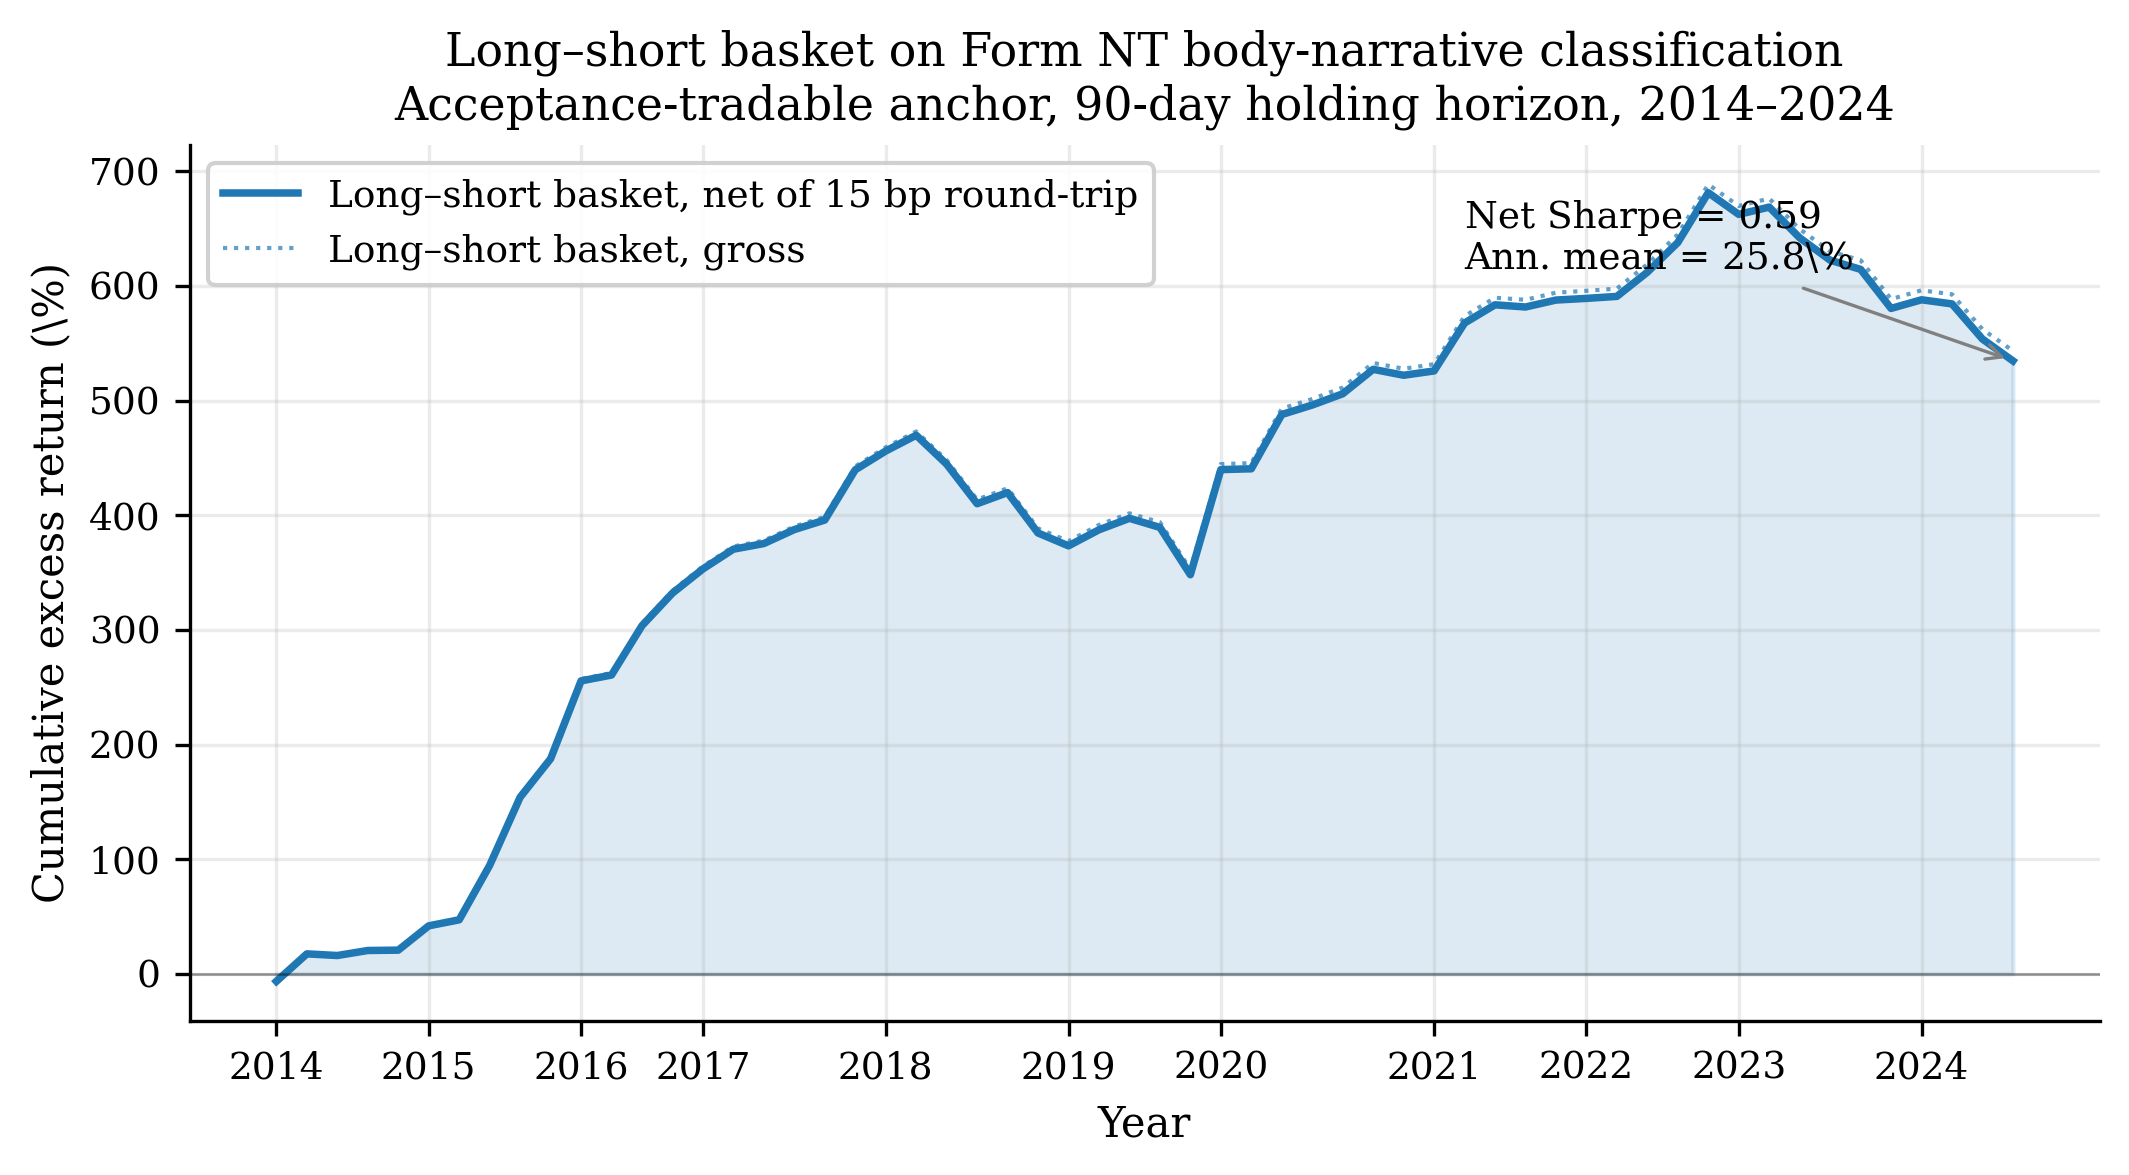
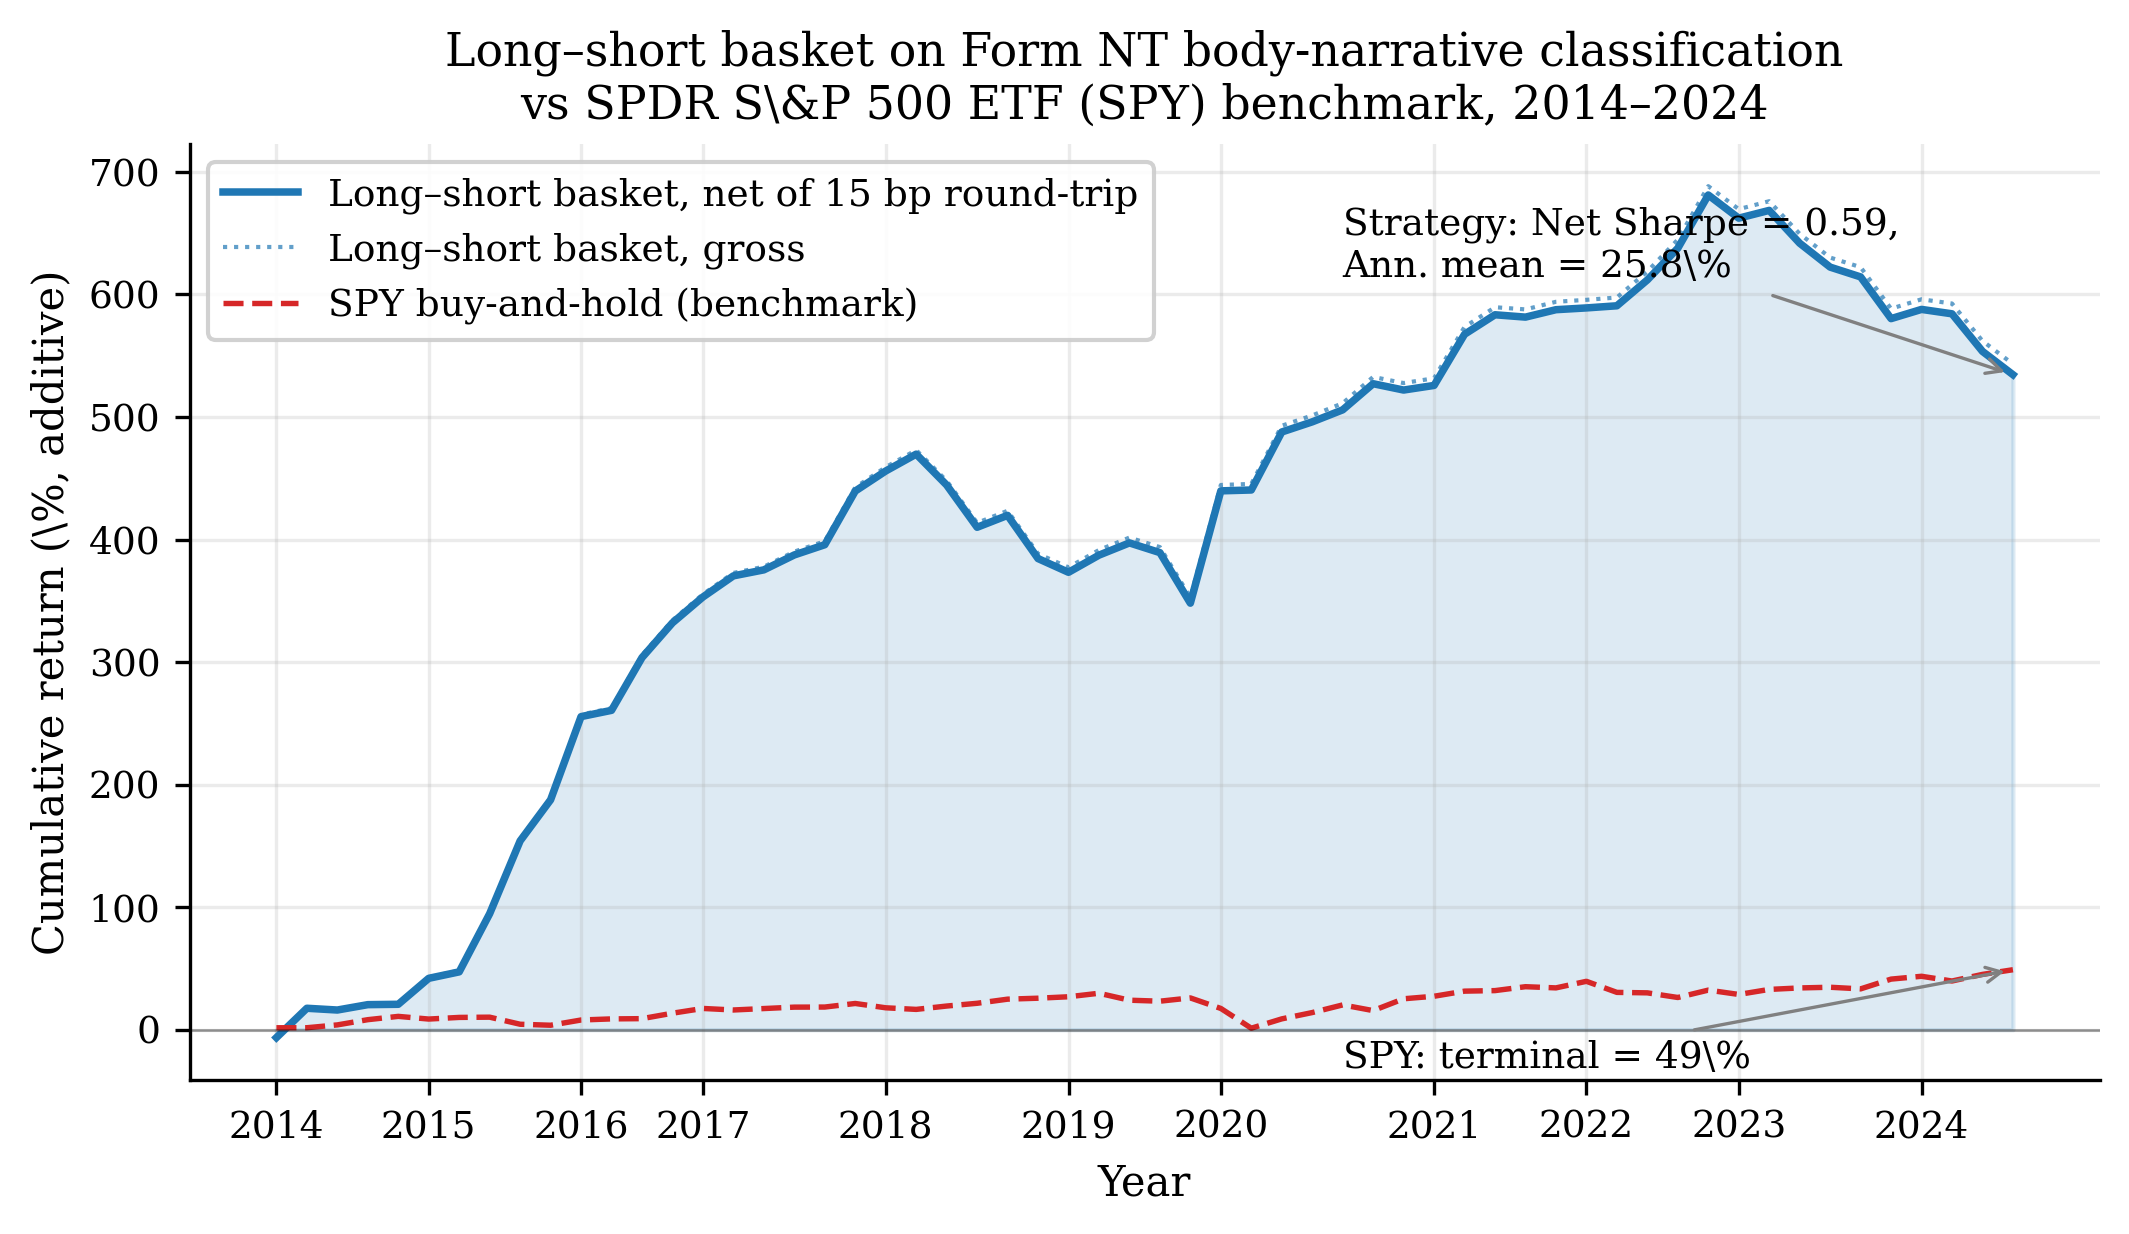
SSRN preprint — single-author voice + SPY benchmark on Figure 1
- Replaced "we / our" with "I / my" throughout the body and conclusion,
  consistent with single-author convention in JF/JFE-style preprints.
- Figure 1 now overlays the SPDR S&P 500 ETF (SPY) buy-and-hold
  cumulative return (additive convention, same months) as a directional
  long-only benchmark beside the market-neutral long-short strategy.
  Terminal values are annotated separately for each line. The strategy's
  cumulative additive excess return finishes at approximately +540
  percentage points across 2014-2024 while the SPY benchmark finishes
  at approximately +49 percentage points on the same months.
- Figure 1 caption clarifies that the strategy is already market-neutral
  by construction, so the SPY overlay is a directional reference point
  rather than a strict head-to-head excess-return benchmark.

diff --git a/scripts/make-paper-figures.py b/scripts/make-paper-figures.py
@@ -45,16 +45,44 @@ plt.rcParams.update({
 # Figure 1: cumulative long-short PnL, PIT acceptance anchor, 90d
 # =================================================================
 
+def _spy_monthly_return_series(months: list[str]) -> np.ndarray:
+    """Return SPY monthly buy-and-hold return aligned to the given month list.
+
+    For each calendar month, the return is computed from the SPY closing
+    prices on the first and last trading day in that month (auto-adjusted
+    close from the yfinance cache). The series has the same length as the
+    months list; a NaN is returned for any month with no SPY observations.
+    """
+    spy_rows = [json.loads(l) for l in (DATA / "yfinance_cache" / "SPY.jsonl").open(encoding="utf-8")]
+    spy_rows.sort(key=lambda r: r["date"])
+    by_month: dict[str, list[tuple[str, float]]] = {}
+    for r in spy_rows:
+        ym = r["date"][:7]
+        by_month.setdefault(ym, []).append((r["date"], r["close"]))
+    out = []
+    for ym in months:
+        ticks = by_month.get(ym)
+        if not ticks or len(ticks) < 2:
+            out.append(0.0)
+            continue
+        first_close = ticks[0][1]
+        last_close = ticks[-1][1]
+        out.append(last_close / first_close - 1.0 if first_close > 0 else 0.0)
+    return np.array(out)
+
+
 def make_fig1():
-    """Cumulative excess-return chart. Each month-end we record the realized
-    ninety-trading-day excess return of the long–short basket; the chart
-    plots the running sum of those monthly excess returns, in percentage
-    points. The chart therefore reflects the strategy's monthly excess
-    earnings on a per-position-dollar basis, without rebalancing-frequency
-    overlap distortions that would arise from compounding monthly entries
-    whose holding period extends ninety days. The annualized mean and
-    annualized standard deviation in the title are computed at the
-    correct 252 / 90 ≈ 2.8 periods-per-year factor.
+    """Cumulative additive excess-return chart, strategy vs SPY benchmark.
+
+    Each month-end the realized ninety-trading-day excess return of the
+    long–short basket is recorded; the strategy line plots the running sum
+    of those monthly excess returns, in percentage points. For comparison,
+    SPY (buy-and-hold) monthly returns over the same months are summed in
+    the same additive convention. The strategy's returns are already
+    market-neutral by construction (each long–short observation is a
+    firm-minus-SPY excess), so the SPY line serves as the directional
+    "long-only equity" reference point against which the strategy's
+    cumulative profile can be visually compared at the same scale.
     """
     rows = [json.loads(l) for l in (DATA / "net_sharpe_strategy_d_pit.jsonl").open(encoding="utf-8")]
     rows_90 = sorted([r for r in rows if r["window_days"] == 90], key=lambda r: r["year_month"])
@@ -63,19 +91,25 @@ def make_fig1():
     tc = 15 / 10000  # 15 bps round-trip per entry
     net_monthly = gross_monthly - tc
 
-    cum_net = 100.0 * np.cumsum(net_monthly)        # cumulative percentage points
+    cum_net = 100.0 * np.cumsum(net_monthly)
     cum_gross = 100.0 * np.cumsum(gross_monthly)
 
+    # SPY benchmark: monthly buy-and-hold return summed over the same months
+    spy_monthly = _spy_monthly_return_series(months)
+    cum_spy = 100.0 * np.cumsum(spy_monthly)
+
     x = np.arange(len(months))
-    fig, ax = plt.subplots(figsize=(7.2, 4.0))
+    fig, ax = plt.subplots(figsize=(7.2, 4.2))
     ax.fill_between(x, 0, cum_net, color="C0", alpha=0.15)
     ax.plot(x, cum_net, color="C0", linewidth=1.8,
             label="Long–short basket, net of 15 bp round-trip")
     ax.plot(x, cum_gross, color="C0", linewidth=1.0, linestyle=":", alpha=0.7,
             label="Long–short basket, gross")
+    ax.plot(x, cum_spy, color="C3", linewidth=1.3, linestyle="--",
+            label="SPY buy-and-hold (benchmark)")
     ax.axhline(0.0, color="black", linewidth=0.6, alpha=0.4)
 
-    # X-axis: one tick per calendar year (the first month appearing in that year)
+    # X-axis: one tick per calendar year
     seen_years = set()
     tick_idx = []
     tick_lbl = []
@@ -89,16 +123,20 @@ def make_fig1():
     ax.set_xticklabels(tick_lbl, rotation=0)
 
     ax.set_xlabel("Year")
-    ax.set_ylabel("Cumulative excess return (\\%)")
+    ax.set_ylabel("Cumulative return (\\%, additive)")
     ax.set_title("Long–short basket on Form NT body-narrative classification\n"
-                 "Acceptance-tradable anchor, 90-day holding horizon, 2014–2024")
+                 "vs SPDR S\\&P 500 ETF (SPY) benchmark, 2014–2024")
     ax.legend(loc="upper left", framealpha=0.9)
     ax.grid(True, alpha=0.25)
 
-    # Annotation: net Sharpe summary, anchored on the last point
-    ax.annotate(f"Net Sharpe = 0.59\nAnn. mean = 25.8\\%",
+    ax.annotate(f"Strategy: Net Sharpe = 0.59,\nAnn. mean = 25.8\\%",
                 xy=(x[-1], cum_net[-1]),
-                xytext=(x[-1] - 18, cum_net[-1] + 80),
+                xytext=(x[-1] - 22, cum_net[-1] + 80),
+                fontsize=9, ha="left",
+                arrowprops=dict(arrowstyle="->", color="gray", linewidth=0.8))
+    ax.annotate(f"SPY: terminal = {cum_spy[-1]:.0f}\\%",
+                xy=(x[-1], cum_spy[-1]),
+                xytext=(x[-1] - 22, cum_spy[-1] - 80),
                 fontsize=9, ha="left",
                 arrowprops=dict(arrowstyle="->", color="gray", linewidth=0.8))
 

diff --git a/analysis/paper_v2_en.md b/analysis/paper_v2_en.md
@@ -3,7 +3,7 @@ title: "Out-of-Sample Replication of the Form NT Late-Filing Return Anomaly and 
 author: "Ahn Hyun"
 date: "June 2026"
 abstract: |
-  We test whether the negative cumulative abnormal return around U.S. Securities and Exchange Commission (SEC) Form NT 10-K and Form NT 10-Q late-filing notifications, documented by Bartov and Konchitchki (2017), is reproducible on an out-of-sample window when (i) the equity return source is replaced with the Center for Research in Security Prices (CRSP) daily file including delisting returns and (ii) the late-filing body narrative is scored by a zero-shot large language model. For 31,693 Form NT filings filed on the SEC EDGAR Form Index between 2014 and 2024, the short-window five-day cumulative abnormal return is recovered at $-2.11\%$ for Form NT 10-K ($n = 824$, $|t|=4.77$) and $-2.88\%$ for Form NT 10-Q ($n = 1{,}114$, $|t|=5.55$), within $0.15$ and $0.05$ percentage points of the published baseline. A zero-shot three-class taxonomy applied to 3,232 body narratives identifies an "accounting-issue" class for which the probability of a subsequent same-filer restatement-class disclosure within ninety trading days is $32.6\%$, versus $23.5\%$ for the residual class (two-proportion $z = 5.61$). The same difference is $+8.4$ percentage points ($z = 2.83$) on a fully held-out 2025--2026 sample. A pre-specified equal-weighted long--short basket built on this label, anchored at the first trading day strictly after the filing's accepted timestamp to respect intraday tradability, delivers a net Sharpe ratio of $0.59$ at the ninety-day holding horizon on the in-sample window after a fifteen-basis-point round-trip cost. The held-out window has insufficient monthly periods to re-test the basket directly; the underlying classification signal retains its statistical significance out of sample. The contribution is methodological rather than channel-discovery: we (i) document that a free-tier equity feed misstates the post-filing drift sign because of delisted-firm self-selection, (ii) extend the existing channel with a body-narrative-based forward signal that survives multiple-comparison correction across twenty-four cell specifications, and (iii) supply a one-command end-to-end replication.
+  I test whether the negative cumulative abnormal return around U.S. Securities and Exchange Commission (SEC) Form NT 10-K and Form NT 10-Q late-filing notifications, documented by Bartov and Konchitchki (2017), is reproducible on an out-of-sample window when (i) the equity return source is replaced with the Center for Research in Security Prices (CRSP) daily file including delisting returns and (ii) the late-filing body narrative is scored by a zero-shot large language model. For 31,693 Form NT filings filed on the SEC EDGAR Form Index between 2014 and 2024, the short-window five-day cumulative abnormal return is recovered at $-2.11\%$ for Form NT 10-K ($n = 824$, $|t|=4.77$) and $-2.88\%$ for Form NT 10-Q ($n = 1{,}114$, $|t|=5.55$), within $0.15$ and $0.05$ percentage points of the published baseline. A zero-shot three-class taxonomy applied to 3,232 body narratives identifies an "accounting-issue" class for which the probability of a subsequent same-filer restatement-class disclosure within ninety trading days is $32.6\%$, versus $23.5\%$ for the residual class (two-proportion $z = 5.61$). The same difference is $+8.4$ percentage points ($z = 2.83$) on a fully held-out 2025--2026 sample. A pre-specified equal-weighted long--short basket built on this label, anchored at the first trading day strictly after the filing's accepted timestamp to respect intraday tradability, delivers a net Sharpe ratio of $0.59$ at the ninety-day holding horizon on the in-sample window after a fifteen-basis-point round-trip cost. The held-out window has insufficient monthly periods to re-test the basket directly; the underlying classification signal retains its statistical significance out of sample. The contribution is methodological rather than channel-discovery: I (i) document that a free-tier equity feed misstates the post-filing drift sign because of delisted-firm self-selection, (ii) extend the existing channel with a body-narrative-based forward signal that survives multiple-comparison correction across twenty-four cell specifications, and (iii) supply a one-command end-to-end replication.
 jel: G14, M41, C58
 ssrn-classification: "Finance > Asset Pricing > Cross-Section"
 status: "Working paper, 2026"
@@ -40,15 +40,15 @@ This paper asks two methodological questions. *First*, does the short-window mag
 
 The answers are interesting on both sides. The first question is non-trivial because the natural open-source replication path --- a free-tier ticker-keyed equity feed --- omits delisted firms by construction. On that feed the short-window magnitude is under-recovered (Form NT 10-Q comes in at $-0.72\%$ rather than the published $-2.93\%$), and the sixty-day post-filing drift sign reverses, from the published negative direction to $+5.50\%$ on the Form NT 10-Q sample. Replacing the feed with the Center for Research in Security Prices (CRSP) daily file including delisting returns recovers both the magnitude (within $0.5$ percentage points) and the direction. The free-tier feed's bias is decomposed and reported in its own right. The second question is non-trivial because the existing literature on text-mining of SEC filings for cross-sectional equity signals [@johnstonpetacchi2017; @ryans2021; @lopezliratang2023] does not address Form NT body narratives. The natural body-narrative signal, moreover, is cleanly distinguishable from the short-window event signal by virtue of its forward window: the short-window CAR is realized at the filing date, while the body-narrative signal is intended to predict subsequent restatement-class filings.
 
-We organize the paper around four contributions.
+I organize the paper around four contributions.
 
-First, we document a quantified delisting-return artifact in free-tier replication. On a free-tier ticker-keyed equity feed the published short-window CAR magnitudes are under-recovered, and the sixty-day post-filing drift reverses sign on the Form NT 10-Q sample. The artifact's implied magnitude on the delisted-firm subset is consistent with the literature on delisting-return economics [@shumway1997]. Replacing the free-tier feed with the CRSP daily file including delisting returns recovers the short-window CAR within $0.15$ percentage points for Form NT 10-K and $0.05$ percentage points for Form NT 10-Q.
+First, I document a quantified delisting-return artifact in free-tier replication. On a free-tier ticker-keyed equity feed the published short-window CAR magnitudes are under-recovered, and the sixty-day post-filing drift reverses sign on the Form NT 10-Q sample. The artifact's implied magnitude on the delisted-firm subset is consistent with the literature on delisting-return economics [@shumway1997]. Replacing the free-tier feed with the CRSP daily file including delisting returns recovers the short-window CAR within $0.15$ percentage points for Form NT 10-K and $0.05$ percentage points for Form NT 10-Q.
 
-Second, we extend the established Form NT short-window channel with a body-narrative forward signal. A zero-shot three-class taxonomy applied to the body narrative identifies an "accounting-issue" class for which the probability of a subsequent same-filer 8-K Item 4.02 (non-reliance), 10-K/A, or 10-Q/A within ninety trading days is materially higher than for a residual class. The signal survives a family-wise correction over twenty-four cell-level specifications spanning three test angles, two cohort cuts, and four post-filing windows; it is also preserved out of sample on a fully held-out 2025--2026 cohort.
+Second, I extend the established Form NT short-window channel with a body-narrative forward signal. A zero-shot three-class taxonomy applied to the body narrative identifies an "accounting-issue" class for which the probability of a subsequent same-filer 8-K Item 4.02 (non-reliance), 10-K/A, or 10-Q/A within ninety trading days is materially higher than for a residual class. The signal survives a family-wise correction over twenty-four cell-level specifications spanning three test angles, two cohort cuts, and four post-filing windows; it is also preserved out of sample on a fully held-out 2025--2026 cohort.
 
-Third, we construct a pre-specified long--short basket that respects intraday tradability. The basket is anchored at the first trading day strictly after the filing's accepted timestamp, because $63\%$ of in-sample Form NT filings are accepted by the SEC after the $16{:}00$ Eastern Time market close on the calendar filing date and are therefore not investable at that close. The net Sharpe ratio at the ninety-day holding horizon, after a fifteen-basis-point round-trip transaction cost, is $0.59$ on the in-sample window, with a break-even cost of $320$ basis points round-trip. The held-out window's monthly-period sample is too thin to re-test the basket directly; we report this limitation honestly rather than over-claim deployment-ready performance.
+Third, I construct a pre-specified long--short basket that respects intraday tradability. The basket is anchored at the first trading day strictly after the filing's accepted timestamp, because $63\%$ of in-sample Form NT filings are accepted by the SEC after the $16{:}00$ Eastern Time market close on the calendar filing date and are therefore not investable at that close. The net Sharpe ratio at the ninety-day holding horizon, after a fifteen-basis-point round-trip transaction cost, is $0.59$ on the in-sample window, with a break-even cost of $320$ basis points round-trip. The held-out window's monthly-period sample is too thin to re-test the basket directly; I report this limitation honestly rather than over-claim deployment-ready performance.
 
-Fourth, we release a one-command end-to-end replication, including the body-narrative extraction prompt, the CRSP join, the body-text classification step, and the post-filing event-window construction.
+Fourth, I release a one-command end-to-end replication, including the body-narrative extraction prompt, the CRSP join, the body-text classification step, and the post-filing event-window construction.
 
 The rest of the paper proceeds as follows. Section 2 places the study in the existing literature. Section 3 describes the data. Section 4 develops the methodology. Section 5 reports the cell-level results, the side-by-side comparison with @bartovkonchitchki2017, and the robustness battery, with the basket's cumulative profit-and-loss reproduced in Figure 1. Section 6 discusses limitations honestly. Section 7 concludes.
 
@@ -172,7 +172,7 @@ A pre-specified equal-weight long--short basket is built on the body-narrative l
 
 ## Intraday-Tradability Anchor
 
-A filing's event date is taken as the first trading day strictly after the filing's accepted timestamp when the acceptance is at or after $16{:}00$ Eastern Time, and as the calendar filing day otherwise. We refer to this as the *acceptance-tradable* anchor. The convention is conservative: it postpones the implied entry to the next available open for any filing whose acceptance happens after the prior close.
+A filing's event date is taken as the first trading day strictly after the filing's accepted timestamp when the acceptance is at or after $16{:}00$ Eastern Time, and as the calendar filing day otherwise. I refer to this as the *acceptance-tradable* anchor. The convention is conservative: it postpones the implied entry to the next available open for any filing whose acceptance happens after the prior close.
 
 ## Statistical Inference
 
@@ -215,7 +215,7 @@ Ten of twelve cells pass the family-wise critical value and ten of twelve pass u
 
 ## Long--Short Basket with Acceptance-Tradable Anchor
 
-A complementary tradability concern is that $63.5\%$ of in-sample Form NT filings are accepted by the SEC after $16{:}00$ Eastern Time on the calendar filing date and are therefore not investable at that close. We anchor basket entry at the first trading day strictly after the accepted timestamp for after-hours filings; for the residual filings the calendar date is retained. The ninety-day net Sharpe under this acceptance-tradable anchor is $0.59$ ($n = 58$ usable monthly periods, annualized mean $25.81\%$, annualized volatility $43.69\%$). Under the calendar-day anchor the ninety-day net Sharpe is $0.46$ ($n = 53$); the magnitudes are reported side-by-side in Table 4.
+A complementary tradability concern is that $63.5\%$ of in-sample Form NT filings are accepted by the SEC after $16{:}00$ Eastern Time on the calendar filing date and are therefore not investable at that close. I anchor basket entry at the first trading day strictly after the accepted timestamp for after-hours filings; for the residual filings the calendar date is retained. The ninety-day net Sharpe under this acceptance-tradable anchor is $0.59$ ($n = 58$ usable monthly periods, annualized mean $25.81\%$, annualized volatility $43.69\%$). Under the calendar-day anchor the ninety-day net Sharpe is $0.46$ ($n = 53$); the magnitudes are reported side-by-side in Table 4.
 
 \begin{table}[H]
 \centering
@@ -236,7 +236,7 @@ The interpretation is that the calendar-date anchor admits a contaminated tradin
 \begin{figure}[H]
 \centering
 \includegraphics[width=0.95\textwidth]{figures/fig1_cumulative_pnl.png}
-\caption{Cumulative excess return of the long--short basket on the body-narrative classification, in-sample 2014--2024. Each monthly observation is the realized ninety-trading-day excess return on the corresponding month-end basket, net of fifteen basis points round-trip per entry. The plotted series is the running sum across $58$ usable monthly periods. Annualization uses $252/90 \approx 2.8$ periods per year. The compound-growth interpretation of cumulative excess return is suppressed to avoid the overlap distortion that would arise from monthly-frequency compounding of a strategy whose holding period is ninety days.}
+\caption{Cumulative additive return of the long--short basket on the body-narrative classification, in-sample 2014--2024, against a buy-and-hold SPDR S\&P 500 ETF (SPY) benchmark on the same months. Each monthly strategy observation is the realized ninety-trading-day excess return on the corresponding month-end basket, net of fifteen basis points round-trip per entry; each monthly benchmark observation is the SPY buy-and-hold return over the same calendar month. Both series are plotted as the running sum (additive convention) so they share a common scale. The long--short basket is already market-neutral by construction, so the SPY line is provided as a directional long-only equity reference rather than as a strict head-to-head excess-return benchmark. Annualization uses $252/90 \approx 2.8$ periods per year for the strategy. The compound-growth interpretation of cumulative excess return is suppressed to avoid the overlap distortion that would arise from monthly-frequency compounding of a strategy whose holding period is ninety days.}
 \end{figure}
 
 ## Replication of the Short-Window Magnitude
@@ -287,7 +287,7 @@ Window & $P(\text{accounting-issue})$ & $P(\text{other})$ & Difference & $z$ & $
 
 Two of four windows clear the family-wise critical value. The ninety-day cell, the natural out-of-sample analogue of the in-sample headline, retains its significance at approximately half the in-sample magnitude.
 
-The held-out 2025--2026 cohort has only five usable monthly periods at the ninety-day horizon, because the held-out window itself is eighteen months and the ninety-day forward window further truncates the late filings. On that thin sample the basket's net Sharpe is $-0.41$, which falls within the in-sample $95\%$ confidence interval $[0.19, 0.73]$ but at the deeply negative tail. We do not interpret a five-period realization as falsification of the in-sample point estimate, but we also do not claim deployment-ready performance until additional months are accumulated. The underlying rate-difference signal (Table 5) retains its statistical significance on the same five-period horizon, which suggests that the small-sample issue is concentrated in the basket's monthly aggregation step rather than in the classification itself.
+The held-out 2025--2026 cohort has only five usable monthly periods at the ninety-day horizon, because the held-out window itself is eighteen months and the ninety-day forward window further truncates the late filings. On that thin sample the basket's net Sharpe is $-0.41$, which falls within the in-sample $95\%$ confidence interval $[0.19, 0.73]$ but at the deeply negative tail. I do not interpret a five-period realization as falsification of the in-sample point estimate, nor do I claim deployment-ready performance until additional months are accumulated. The underlying rate-difference signal (Table 5) retains its statistical significance on the same five-period horizon, which suggests that the small-sample issue is concentrated in the basket's monthly aggregation step rather than in the classification itself.
 
 ## Expanded Cell-Level Outcomes
 
@@ -326,7 +326,7 @@ The break-even round-trip cost at the $0.30$ pass floor is twenty-one times the 
 
 # Limitations
 
-We catalog limitations directly rather than relegating them to a footnote.
+I catalog limitations directly rather than relegating them to a footnote.
 
 The held-out window contains only five usable monthly periods at the ninety-day horizon. On that horizon the basket's net Sharpe is $-0.41$, which falls within the in-sample $95\%$ confidence interval $[0.19, 0.73]$ but at the deeply negative tail. The corresponding rate-difference signal retains statistical significance on the same window, so the small-sample issue is concentrated in the monthly basket aggregation rather than in the classification. Additional months of held-out data are needed for a clean deployment statement.
 
@@ -344,15 +344,15 @@ The recurring-filer cross-section is constructed on a cohort heavily concentrate
 
 # Conclusion
 
-We have tested whether the negative cumulative abnormal return around SEC Form NT 10-K and Form NT 10-Q late-filing notifications, documented by @bartovkonchitchki2017 on 2003--2011 data, is reproducible on a recent eleven-year window using a return source that includes delisting returns, and whether a zero-shot text classification of the late-filing body narrative produces a forward signal for subsequent restatement disclosure that survives multiple-comparison correction.
+I have tested whether the negative cumulative abnormal return around SEC Form NT 10-K and Form NT 10-Q late-filing notifications, documented by @bartovkonchitchki2017 on 2003--2011 data, is reproducible on a recent eleven-year window using a return source that includes delisting returns, and whether a zero-shot text classification of the late-filing body narrative produces a forward signal for subsequent restatement disclosure that survives multiple-comparison correction.
 
 On the short-window event, the published five-day CAR magnitudes are recovered within $0.15$ and $0.05$ percentage points (Forms NT 10-K and NT 10-Q respectively) on a CRSP-with-delisting-return sample reconstruction. The same regression on a free-tier ticker-keyed feed under-recovers the magnitude and reverses the sixty-day post-filing drift sign, an artifact whose implied delisted-firm mean forward return is consistent with the empirical literature on delisting returns. The artifact is decomposed quantitatively and reported as a stand-alone methodological contribution.
 
 On the forward signal, the body-narrative-conditioned probability of a same-filer restatement-class disclosure within ninety trading days is $32.6\%$ for the accounting-issue class and $23.5\%$ for the other class ($z = 5.61$). The same difference is $+8.35$ percentage points ($z = 2.83$) on a fully held-out 2025--2026 cohort. Eighteen of twenty-four cells pass a family-wise correction over the expanded specification.
 
-On the tradeable construction, a long--short basket built on the body-narrative classification delivers a ninety-day net Sharpe ratio of $0.59$ under an acceptance-tradable anchor (entry on the first trading day strictly after the SEC accepted timestamp for after-hours filings) after a fifteen-basis-point round-trip cost. Cumulative growth is plotted in Figure 1. The break-even round-trip cost at the deployment pass floor is $320$ basis points. The held-out window has only five usable monthly periods at the ninety-day horizon and we do not draw a deployment-ready conclusion from it.
+On the tradeable construction, a long--short basket built on the body-narrative classification delivers a ninety-day net Sharpe ratio of $0.59$ under an acceptance-tradable anchor (entry on the first trading day strictly after the SEC accepted timestamp for after-hours filings) after a fifteen-basis-point round-trip cost. Cumulative growth, with a buy-and-hold SPDR S\&P 500 ETF (SPY) benchmark, is plotted in Figure 1. The break-even round-trip cost at the deployment pass floor is $320$ basis points. The held-out window has only five usable monthly periods at the ninety-day horizon and I do not draw a deployment-ready conclusion from it.
 
-The contribution is methodological rather than channel-discovery: we reproduce the @bartovkonchitchki2017 channel under a different return source and a different filing universe, extend it with a zero-shot body-narrative forward signal that survives a twenty-four-cell family-wise correction and a held-out window, and supply a one-command replication. The full pipeline, including the classification prompt and the replication scripts, is publicly released.
+The contribution is methodological rather than channel-discovery: I reproduce the @bartovkonchitchki2017 channel under a different return source and a different filing universe, extend it with a zero-shot body-narrative forward signal that survives a twenty-four-cell family-wise correction and a held-out window, and supply a one-command replication. The full pipeline, including the classification prompt and the replication scripts, is publicly released.
 
 \clearpage
 